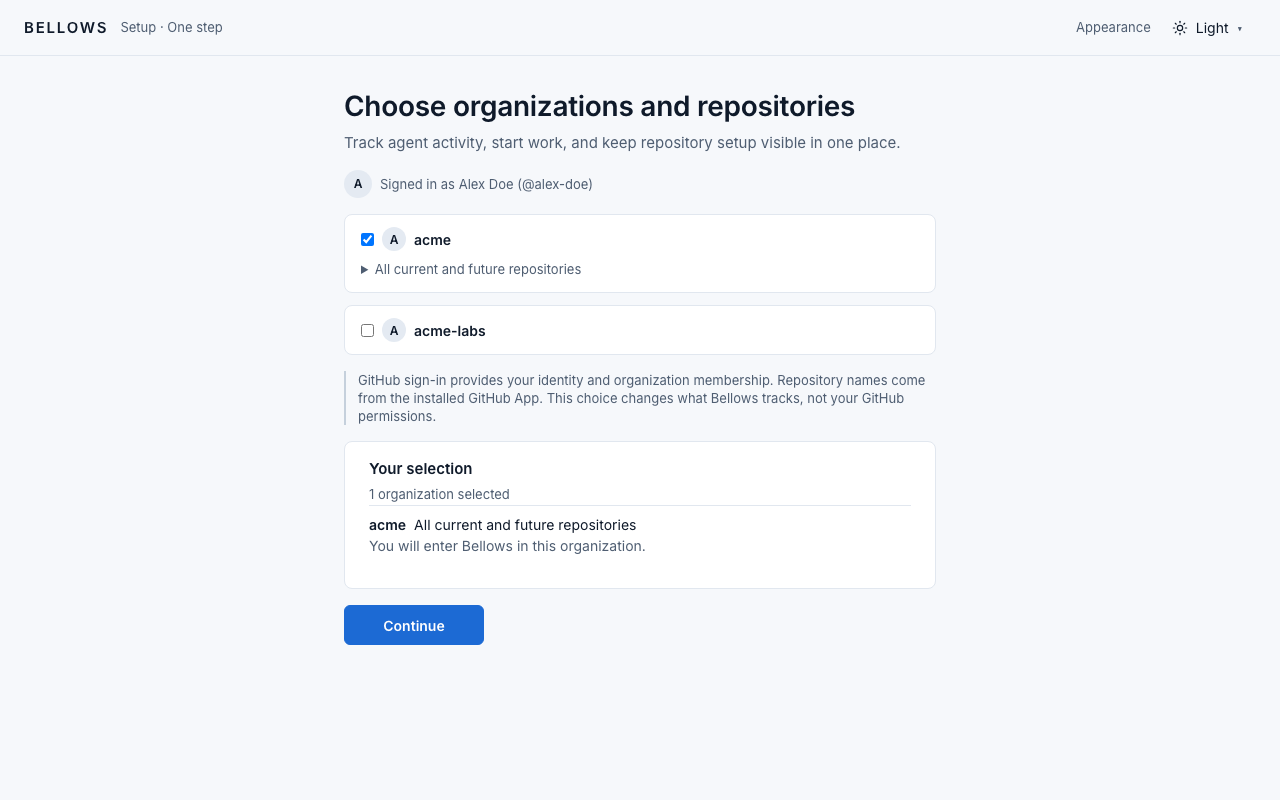
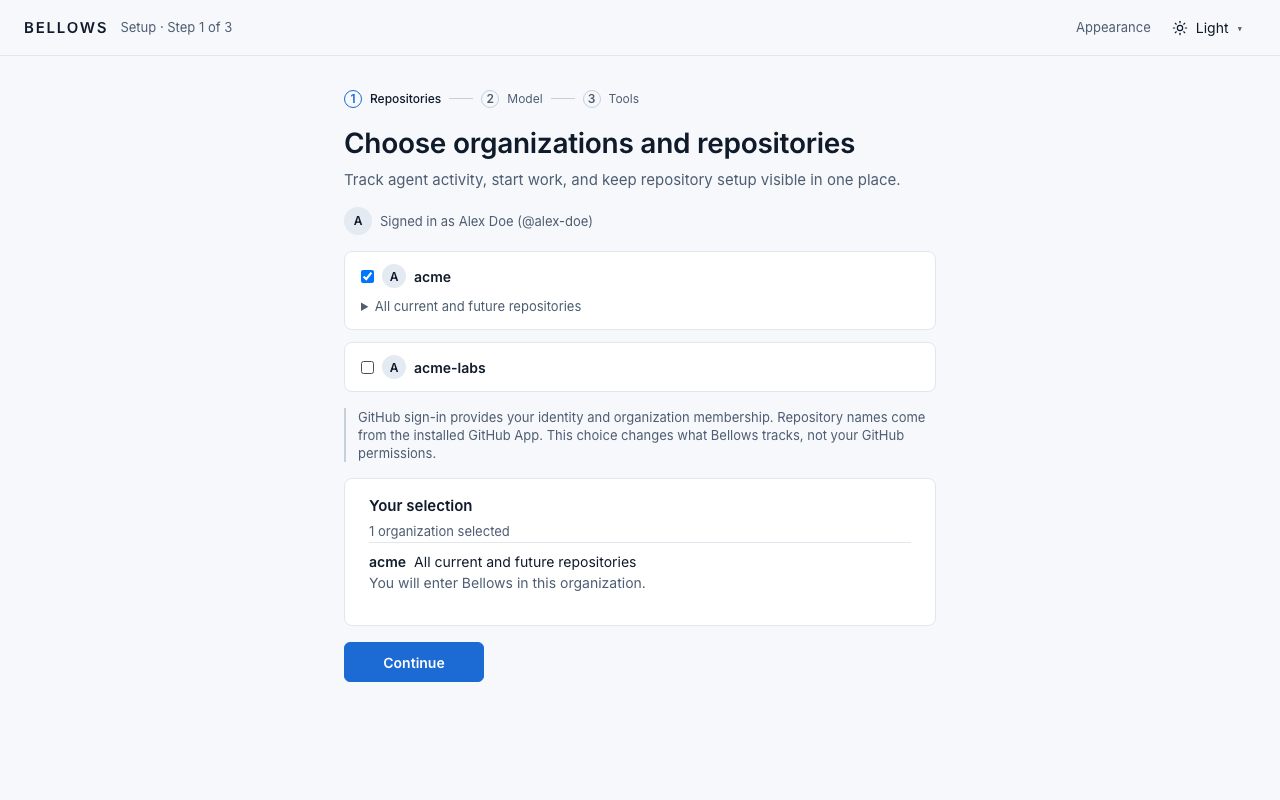
docs(site): update the user docs for v0.0.17, add members and organization guides
Claude-Session: https://claude.ai/code/session_01C72TdyqxBWZae6x1nJQqNj

Changed region(s): [[0.25, 0.0938, 0.7188, 0.875], [0.125, 0.0312, 0.1875, 0.0625]]

diff --git a/site/README.md b/site/README.md
@@ -33,9 +33,12 @@ Light theme, captured from the web app with fictional data (org `acme`, repo `ac
 | -------------------------------------- | ---------- | ------------------------------------------------------------- |
 | `images/quickstart/01-onboarding.png`    | 1280 × 800 | Choose organizations and repositories, one org selected       |
 | `images/quickstart/02-settings-repos.png`| 1280 × 380 | Settings → Repositories with the example repo listed          |
-| `images/quickstart/03-new-task.png`      | 1440 × 470 | New task with the example prompt, repo and executor picked    |
+| `images/quickstart/03-new-task.png`      | 1440 × 780 | The You're set page: summary, starters and the composer with the example prompt |
 | `images/quickstart/04-question.png`      | 660 × 360  | An agent question waiting for an answer, cropped to the card  |
 | `images/quickstart/05-task-review.png`   | 1280 × 920 | Task page waiting for review, with the published PR           |
+| `images/quickstart/07-connect-model.png` | 1280 × 980 | Setup step 2, Connect a model, with Anthropic picked and a checked key |
+| `images/quickstart/08-connect-tracker.png` | 1280 × 800 | Setup step 3, Connect your issue tracker                    |
+| `images/guides/07-members.png`           | 1056 × 849 | Settings → Organization: Members, Removed members, Invite members (fictional members `alex-doe`, `sam-roe`, `kim-lee`, `jo-park`) |
 | `images/guides/06-inbox.png`             | 1440 × 640 | Needs attention with 3–5 tasks in mixed states                |
 
 This repo is public: screenshots and examples must not show a real organization, repository,
